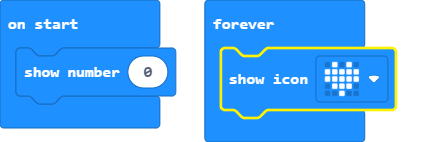
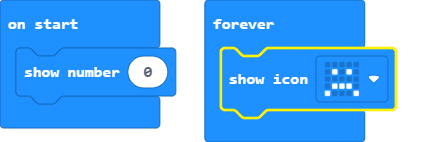
Update main.blocks, main.ts

Changed region(s): [[0.7188, 0.4225, 0.8125, 0.5915], [0.7188, 0.6197, 0.8125, 0.6761]]

diff --git a/main.ts b/main.ts
@@ -1,4 +1,4 @@
 basic.showNumber(0)
 basic.forever(function () {
-    basic.showIcon(IconNames.Heart)
+    basic.showIcon(IconNames.Sad)
 })
